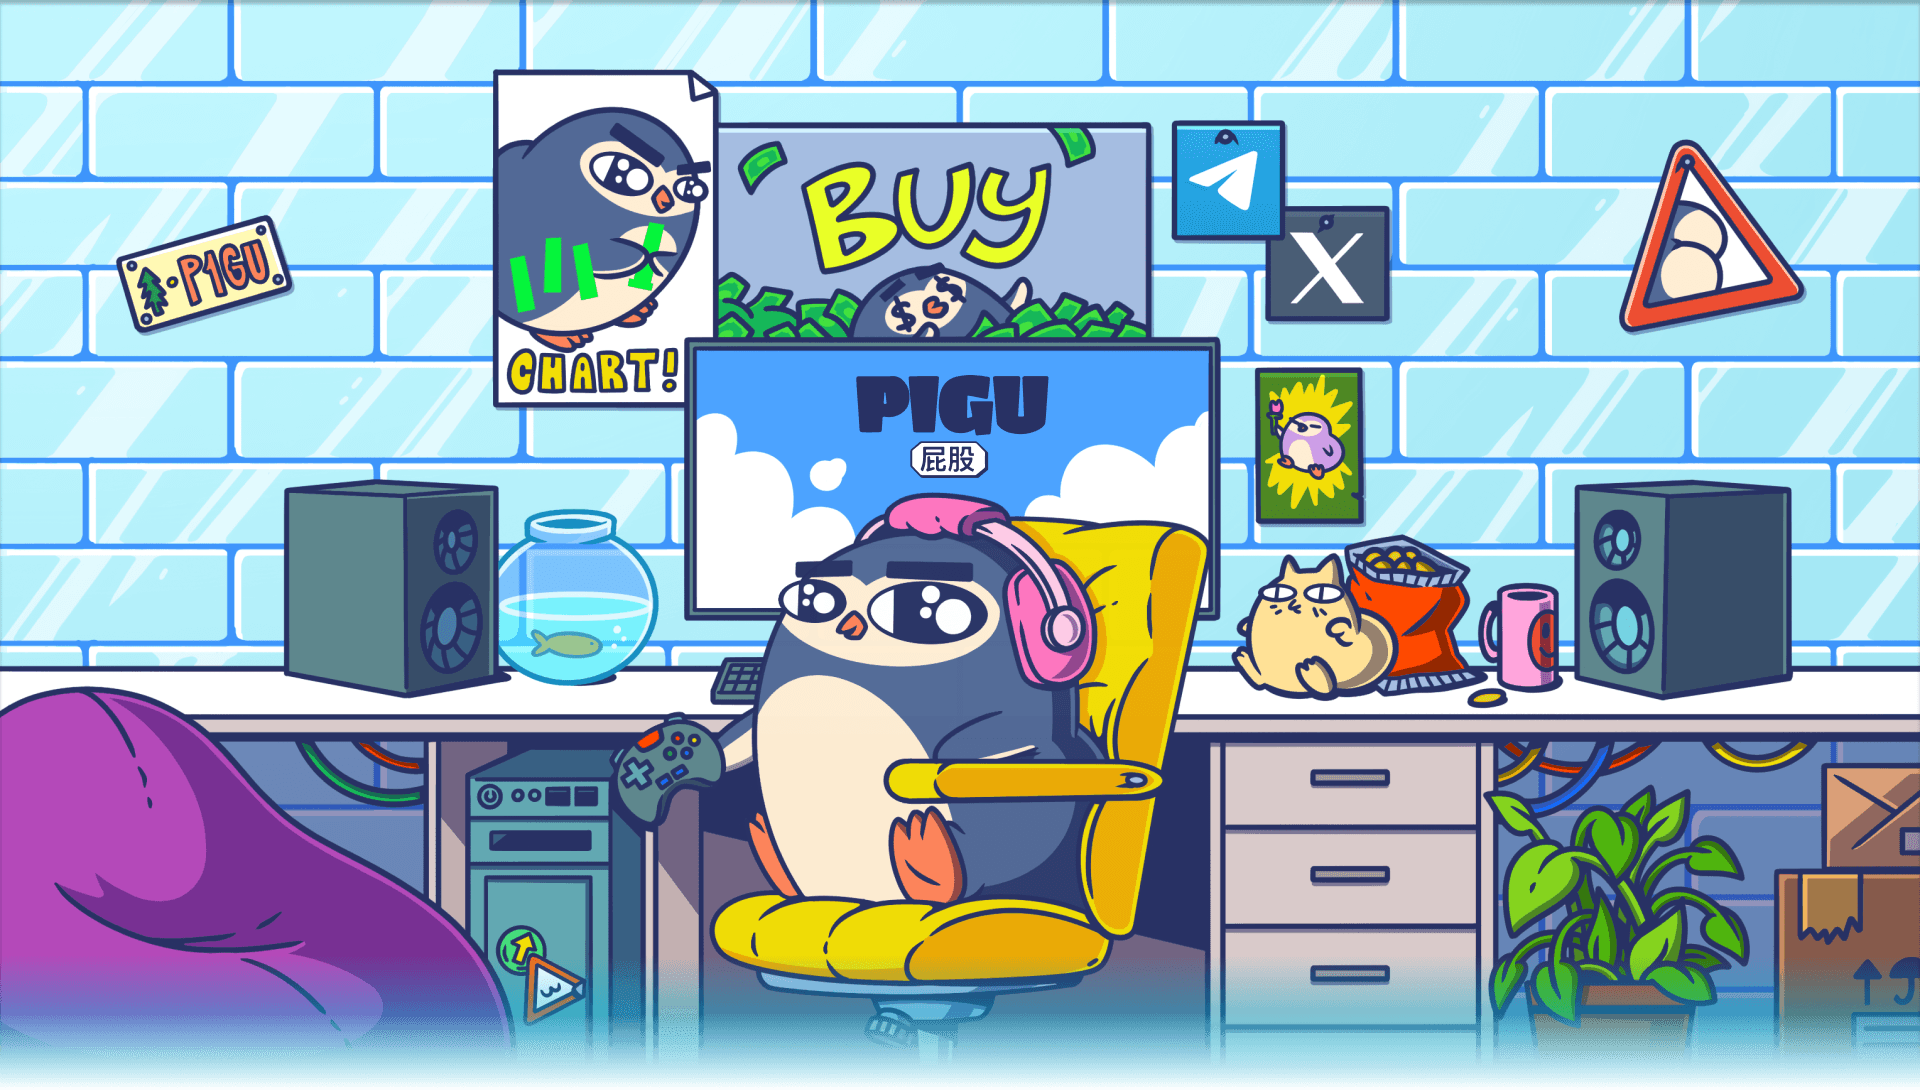
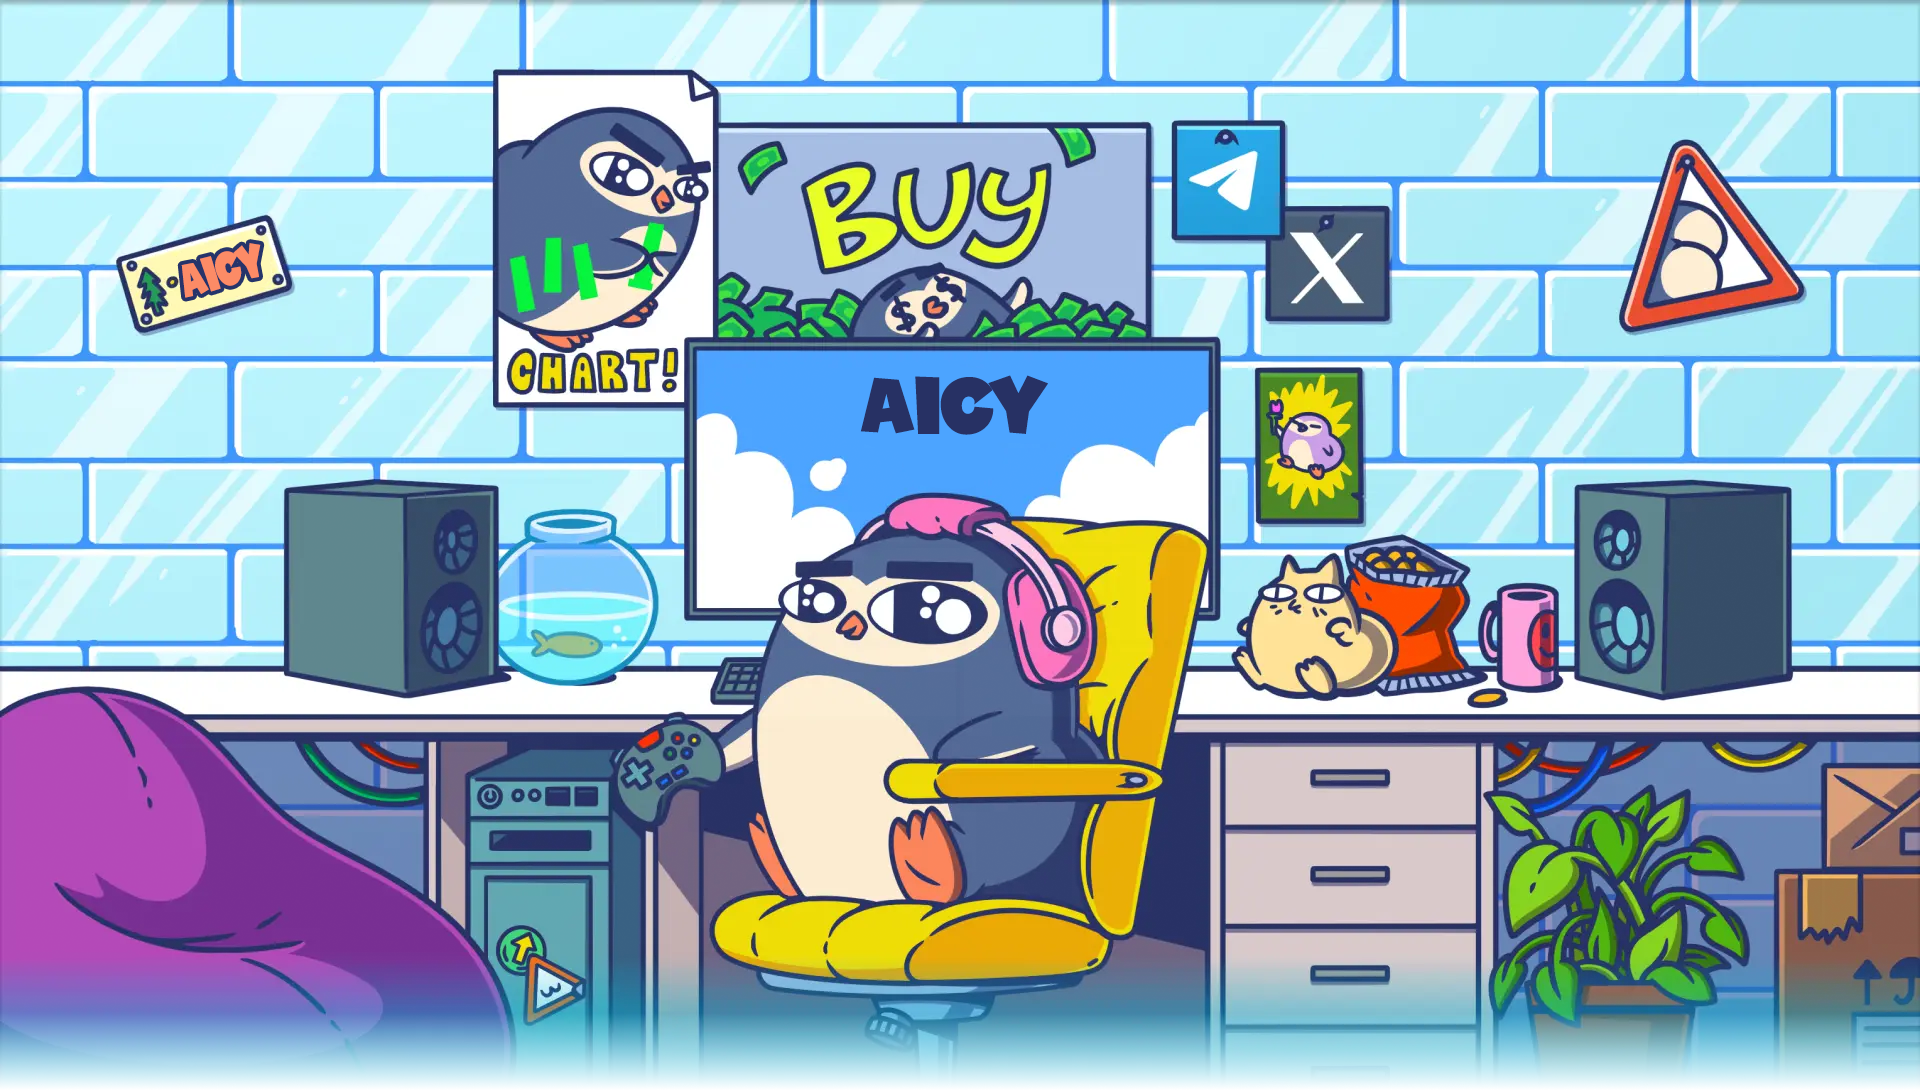
Add files via upload

diff --git a/index.html b/index.html
@@ -8,7 +8,7 @@
     <link rel="preload" as="image"
         imagesrcset="/_next/image?url=%2FpiguFrame2.png&amp;w=640&amp;q=75 640w, /_next/image?url=%2FpiguFrame2.png&amp;w=750&amp;q=75 750w, /_next/image?url=%2FpiguFrame2.png&amp;w=828&amp;q=75 828w, /_next/image?url=%2FpiguFrame2.png&amp;w=1080&amp;q=75 1080w, /_next/image?url=%2FpiguFrame2.png&amp;w=1200&amp;q=75 1200w, /_next/image?url=%2FpiguFrame2.png&amp;w=1920&amp;q=75 1920w, /_next/image?url=%2FpiguFrame2.png&amp;w=2048&amp;q=75 2048w, /_next/image?url=%2FpiguFrame2.png&amp;w=3840&amp;q=75 3840w"
         imagesizes="100vw" fetchpriority="high">
-    <link rel="preload" as="image" href="footers/logo.svg" fetchpriority="high">
+    <link rel="preload" as="image" href="footers/logo.png" fetchpriority="high">
     <link rel="stylesheet" href="_next/static/css/9143897593c24fa8.css" data-precedence="next">
     <link rel="preload" as="script" fetchpriority="low" href="_next/static/chunks/webpack-41a9ee0a1d65a3d2.js">
     <!-- <script src="_next/static/chunks/fd9d1056-d73602e42a88badb.js" async=""></script>
@@ -16,8 +16,8 @@
     <script src="_next/static/chunks/main-app-2dcde4753ea0d175.js" async=""></script>
     <script src="_next/static/chunks/726-bc0c30089b0ebd13.js" async=""></script>
     <script src="_next/static/chunks/app/page-fa8a3e1f186cf62c.js" async=""></script> -->
-    <title>Pigu&#x27;s World </title>
-    <meta name="description" content="He&#x27;s PIGU (屁股). He&#x27;s Clumsy, Cheeky &amp; Cruising through Sui">
+    <title>AICY&#x27;s World </title>
+    <meta name="description" content="He&#x27;s AICY (屁股). He&#x27;s Clumsy, Cheeky &amp; Cruising through Sui">
     <meta name="next-size-adjust">
     <script src="_next/static/chunks/polyfills-42372ed130431b0a.js" nomodule=""></script>
 </head>
@@ -31,9 +31,9 @@
                     style="position:absolute;top:0;left:0;right:0;color:#fff;display:flex;justify-content:space-between;align-items:center;padding:15px;width:100%;height:8%;z-index:4">
                     <div
                         style="position:absolute;right:85%;width:10%;height:100%;display:flex;align-items:center;gap:8px;margin-right:3%;padding:0 15px">
-                        <img alt="Pigu Logo" loading="lazy" width="102" height="32" decoding="async" data-nimg="1"
-                            style="color:transparent;width:80%;height:100%;margin-left:2%;margin-top:2%"
-                            src="menu/logo.svg"></div>
+                        <img alt="AICY Logo" loading="lazy" width="102" height="32" decoding="async" data-nimg="1"
+                            style="color:transparent;margin-left:2%;margin-top:2%"
+                            src="menu/logo.png"></div>
                     <div
                         style="position:absolute;left:78%;width:100%;height:100%;display:flex;align-items:center;gap:8px;margin-right:3%">
                         <a target="_blank" rel="noopener noreferrer" href="https://x.com/Piguworld"><img alt="X"
@@ -44,12 +44,12 @@
                                 style="color:transparent;width:100%;height:100%" src="menu/telegram.svg"></a><a
                             href="https://discord.gg/FPzeJGn8" target="_blank" rel="noopener noreferrer"><img
                                 alt="Discord" loading="lazy" width="33" height="34" decoding="async" data-nimg="1"
-                                style="color:transparent;width:100%;height:100%" src="menu/discord.svg"></a><a
+                                style="color:transparent;width:33px;height:34px" src="menu/discord.png"></a><a
                             href="https://7k.ag/?from=0x0000000000000000000000000000000000000000000000000000000000000002%3A%3Asui%3A%3ASUI&to=0xfc71274a94f5d9cd1ae6928ecfc9fa910d03eb28258fddeb9842ac3c7b4f3ae6%3A%3Apigu%3A%3APIGU"
                             target="_blank" rel="noopener noreferrer"><img alt="Menu" loading="lazy" width="149"
                                 height="34" decoding="async" data-nimg="1"
                                 style="color:transparent;width:100%;height:auto" src="menu/buy.svg"></a></div>
-                </div><img alt="Pigu Frame" fetchpriority="high" width="800" height="600" decoding="async" data-nimg="1"
+                </div><img alt="AICY Frame" fetchpriority="high" width="800" height="600" decoding="async" data-nimg="1"
                     style="color:transparent;z-index:0;width:100%;height:auto" sizes="100vw"
                     srcset="_next/piguFrame2-1.png 640w?url=%2FpiguFrame2.png&amp;w=640&amp;q=75 640w, _next/piguFrame2-2.png 750we?url=%2FpiguFrame2.png&amp;w=750&amp;q=75 750w, _next/piguFrame2-3.png 828we?url=%2FpiguFrame2.png&amp;w=828&amp;q=75 828w, _next/piguFrame2-4.png 1080we?url=%2FpiguFrame2.png&amp;w=1080&amp;q=75 1080w, _next/piguFrame2-5.png 1200we?url=%2FpiguFrame2.png&amp;w=1200&amp;q=75 1200w, _next/piguFrame2-6.png 1920we?url=%2FpiguFrame2.png&amp;w=1920&amp;q=75 1920w, _next/piguFrame2-7.png 2048we?url=%2FpiguFrame2.png&amp;w=2048&amp;q=75 2048w, _next/piguFrame2.png 3840we?url=%2FpiguFrame2.png&amp;w=3840&amp;q=75 3840w"
                     src="_next/piguFrame2.png?url=%2FpiguFrame2.png&amp;w=3840&amp;q=75"><img alt="Pigu" loading="lazy"
@@ -134,9 +134,16 @@
             <div class="content">
                 <div class="grid grid-cols-2 WE_ARE_DUSTY">
                   <div class="box_1 space-y-4">
-                            <!-- <h1 class="animate__bounceInDown wow animate__animated">
-                              CHAT WITH WOOL AI
-                            </h1> -->
+                            <h1 style="
+                            font-family: Passion One;
+                            font-weight: 900;
+                            letter-spacing: .1em;
+                                color: white;
+                            font-size: 5vh; 
+                            text-align: center;
+                            ">
+                              CHAT WITH AICY
+                            </h1>
             <div class="chat-container">
               <div id="chat-container"
                 style="padding: 10px; height: 800px; display: flex; flex-direction: column;">
@@ -477,7 +484,7 @@
                 <div
                     style="height:100%;width:100%;display:flex;flex-direction:column;justify-content:center;align-items:center;gap:15%">
                     <div><img alt="Footer Logo" fetchpriority="high" width="140" height="76" decoding="async"
-                            data-nimg="1" style="color:transparent;height:25vw;width:auto" src="footers/logo.svg"></div>
+                            data-nimg="1" style="color:transparent;height:25vw;width:auto" src="footers/logo.png"></div>
                     <div style="display:flex;justify-content:center;gap:3%"><a href="https://x.com/Piguworld"
                             target="_blank" rel="noopener noreferrer"><img alt="X Logo" loading="lazy" width="33"
                                 height="33" decoding="async" data-nimg="1"
@@ -487,13 +494,13 @@
                                 style="color:transparent;height:11vw;width:auto" src="telegramLogoFooter.svg"></a><a
                             href="https://t.co/P11J4xwiAn" target="_blank" rel="noopener noreferrer"><img
                                 alt="Discord Logo" loading="lazy" width="33" height="33" decoding="async" data-nimg="1"
-                                style="color:transparent;height:11vw;width:auto" src="discordLogoFooter.svg"></a><a
+                                style="color:transparent;height:11vw;width:auto" src="discordLogoFooter.png"></a><a
                             href="https://7k.ag/?from=0x0000000000000000000000000000000000000000000000000000000000000002%3A%3Asui%3A%3ASUI&to=0xfc71274a94f5d9cd1ae6928ecfc9fa910d03eb28258fddeb9842ac3c7b4f3ae6%3A%3Apigu%3A%3APIGU"
                             target="_blank" rel="noopener noreferrer"><img alt="Buy Now Logo" loading="lazy" width="250"
                                 height="63" decoding="async" data-nimg="1"
                                 style="color:transparent;height:11vw;width:auto" src="buyNowFooter.svg"></a></div>
                     <div>
-                        <p style="margin:0;font-size:3.9vw">Copyright ©2024 Pigu. All rights reserved.</p>
+                        <p style="margin:0;font-size:3.9vw">Copyright ©2025 AICY. All rights reserved.</p>
                     </div>
                 </div>
             </div>

diff --git a/_next/static/css/9143897593c24fa8.css b/_next/static/css/9143897593c24fa8.css
@@ -620,3 +620,53 @@ html {
     font-size: 2vw;
     cursor: pointer;
 }
+
+
+.burger {
+    position:absolute;
+    left:17%;
+    width:100%;
+    height:100%;
+    display:flex;
+    align-items:center;
+    gap:8px;
+    margin-right:3%;
+}
+@media screen and (min-width: 450px) {
+    .burger {
+
+        left:40%;
+
+    }
+}
+
+@media screen and (min-width: 580px) {
+    .burger {
+
+        left:50%;
+
+    }
+}
+
+@media screen and (min-width: 720px) {
+    .burger {
+
+        left:60%;
+
+    }
+}
+
+@media screen and (min-width: 880px) {
+    .burger {
+
+        left:70%;
+
+    }
+}
+@media screen and (min-width: 1020px) {
+    .burger {
+
+        left:77%;
+
+    }
+}

diff --git a/_next/static/chunks/app/page-fa8a3e1f186cf62c.js b/_next/static/chunks/app/page-fa8a3e1f186cf62c.js
@@ -39,7 +39,7 @@
             children: [
               (0, r.jsx)("div", {
                 children: (0, r.jsx)(n.default, {
-                  src: "/footers/logo.svg",
+                  src: "/footers/logo.png",
                   alt: "Footer Logo",
                   width: 140,
                   height: 76,
